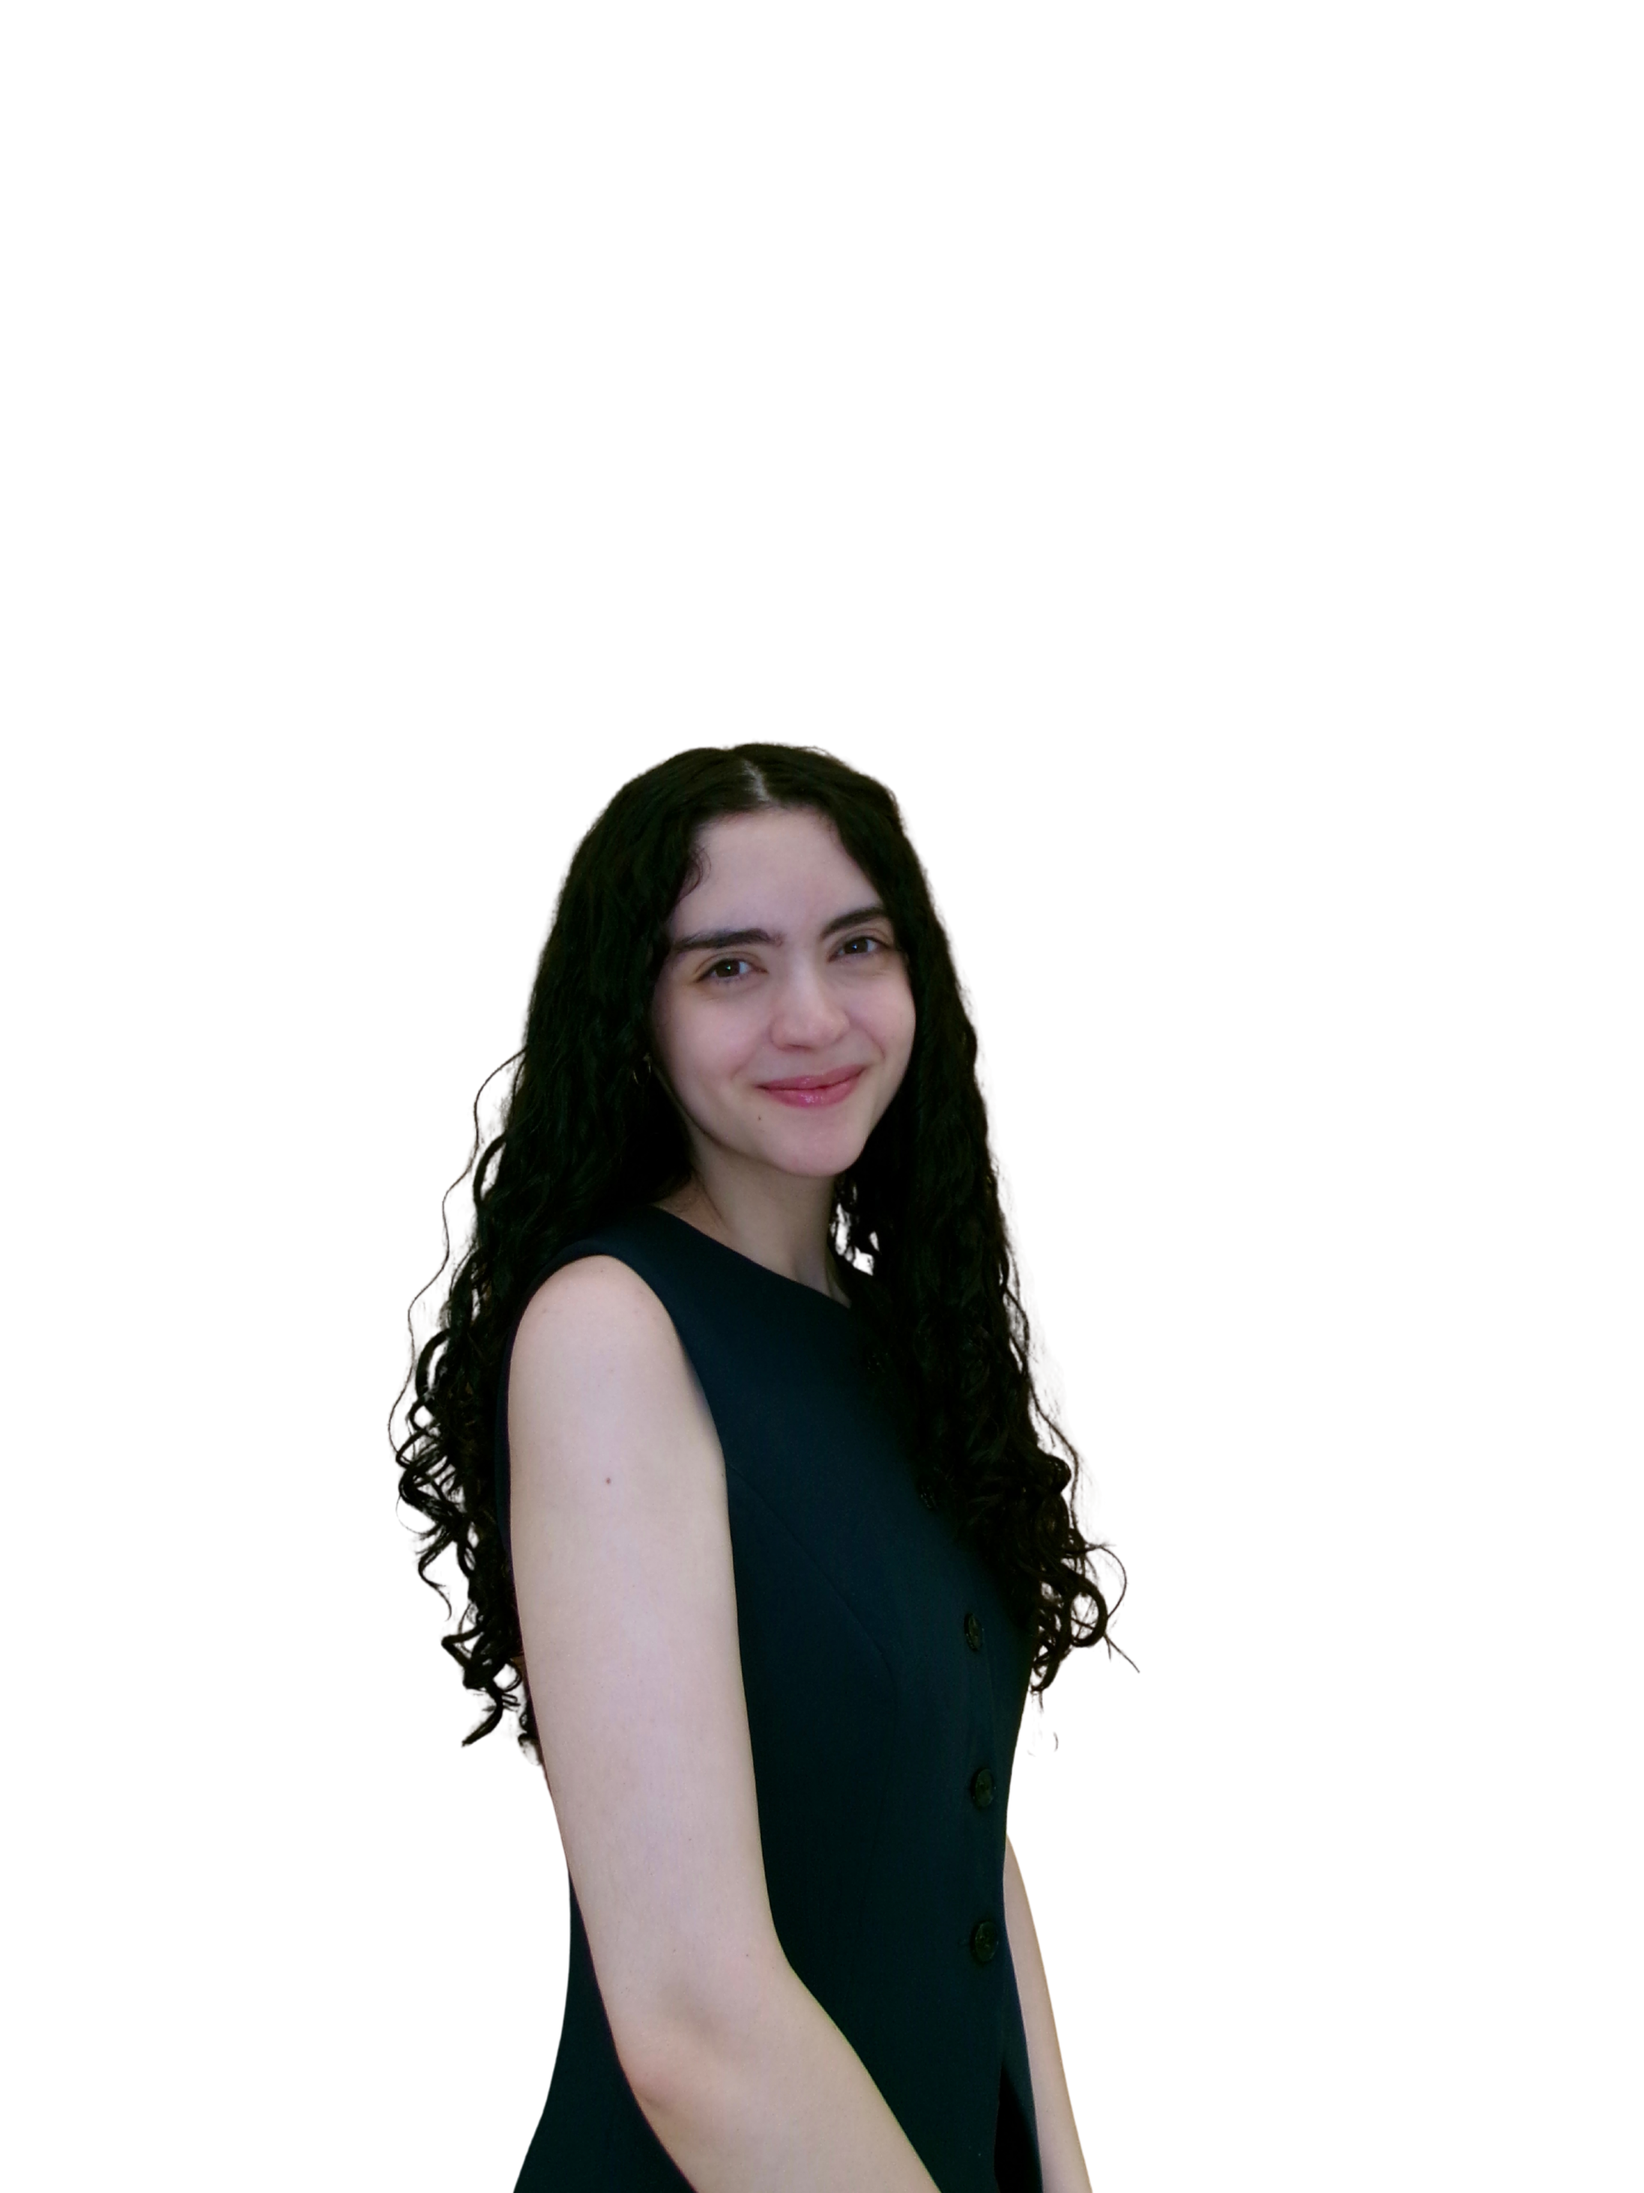
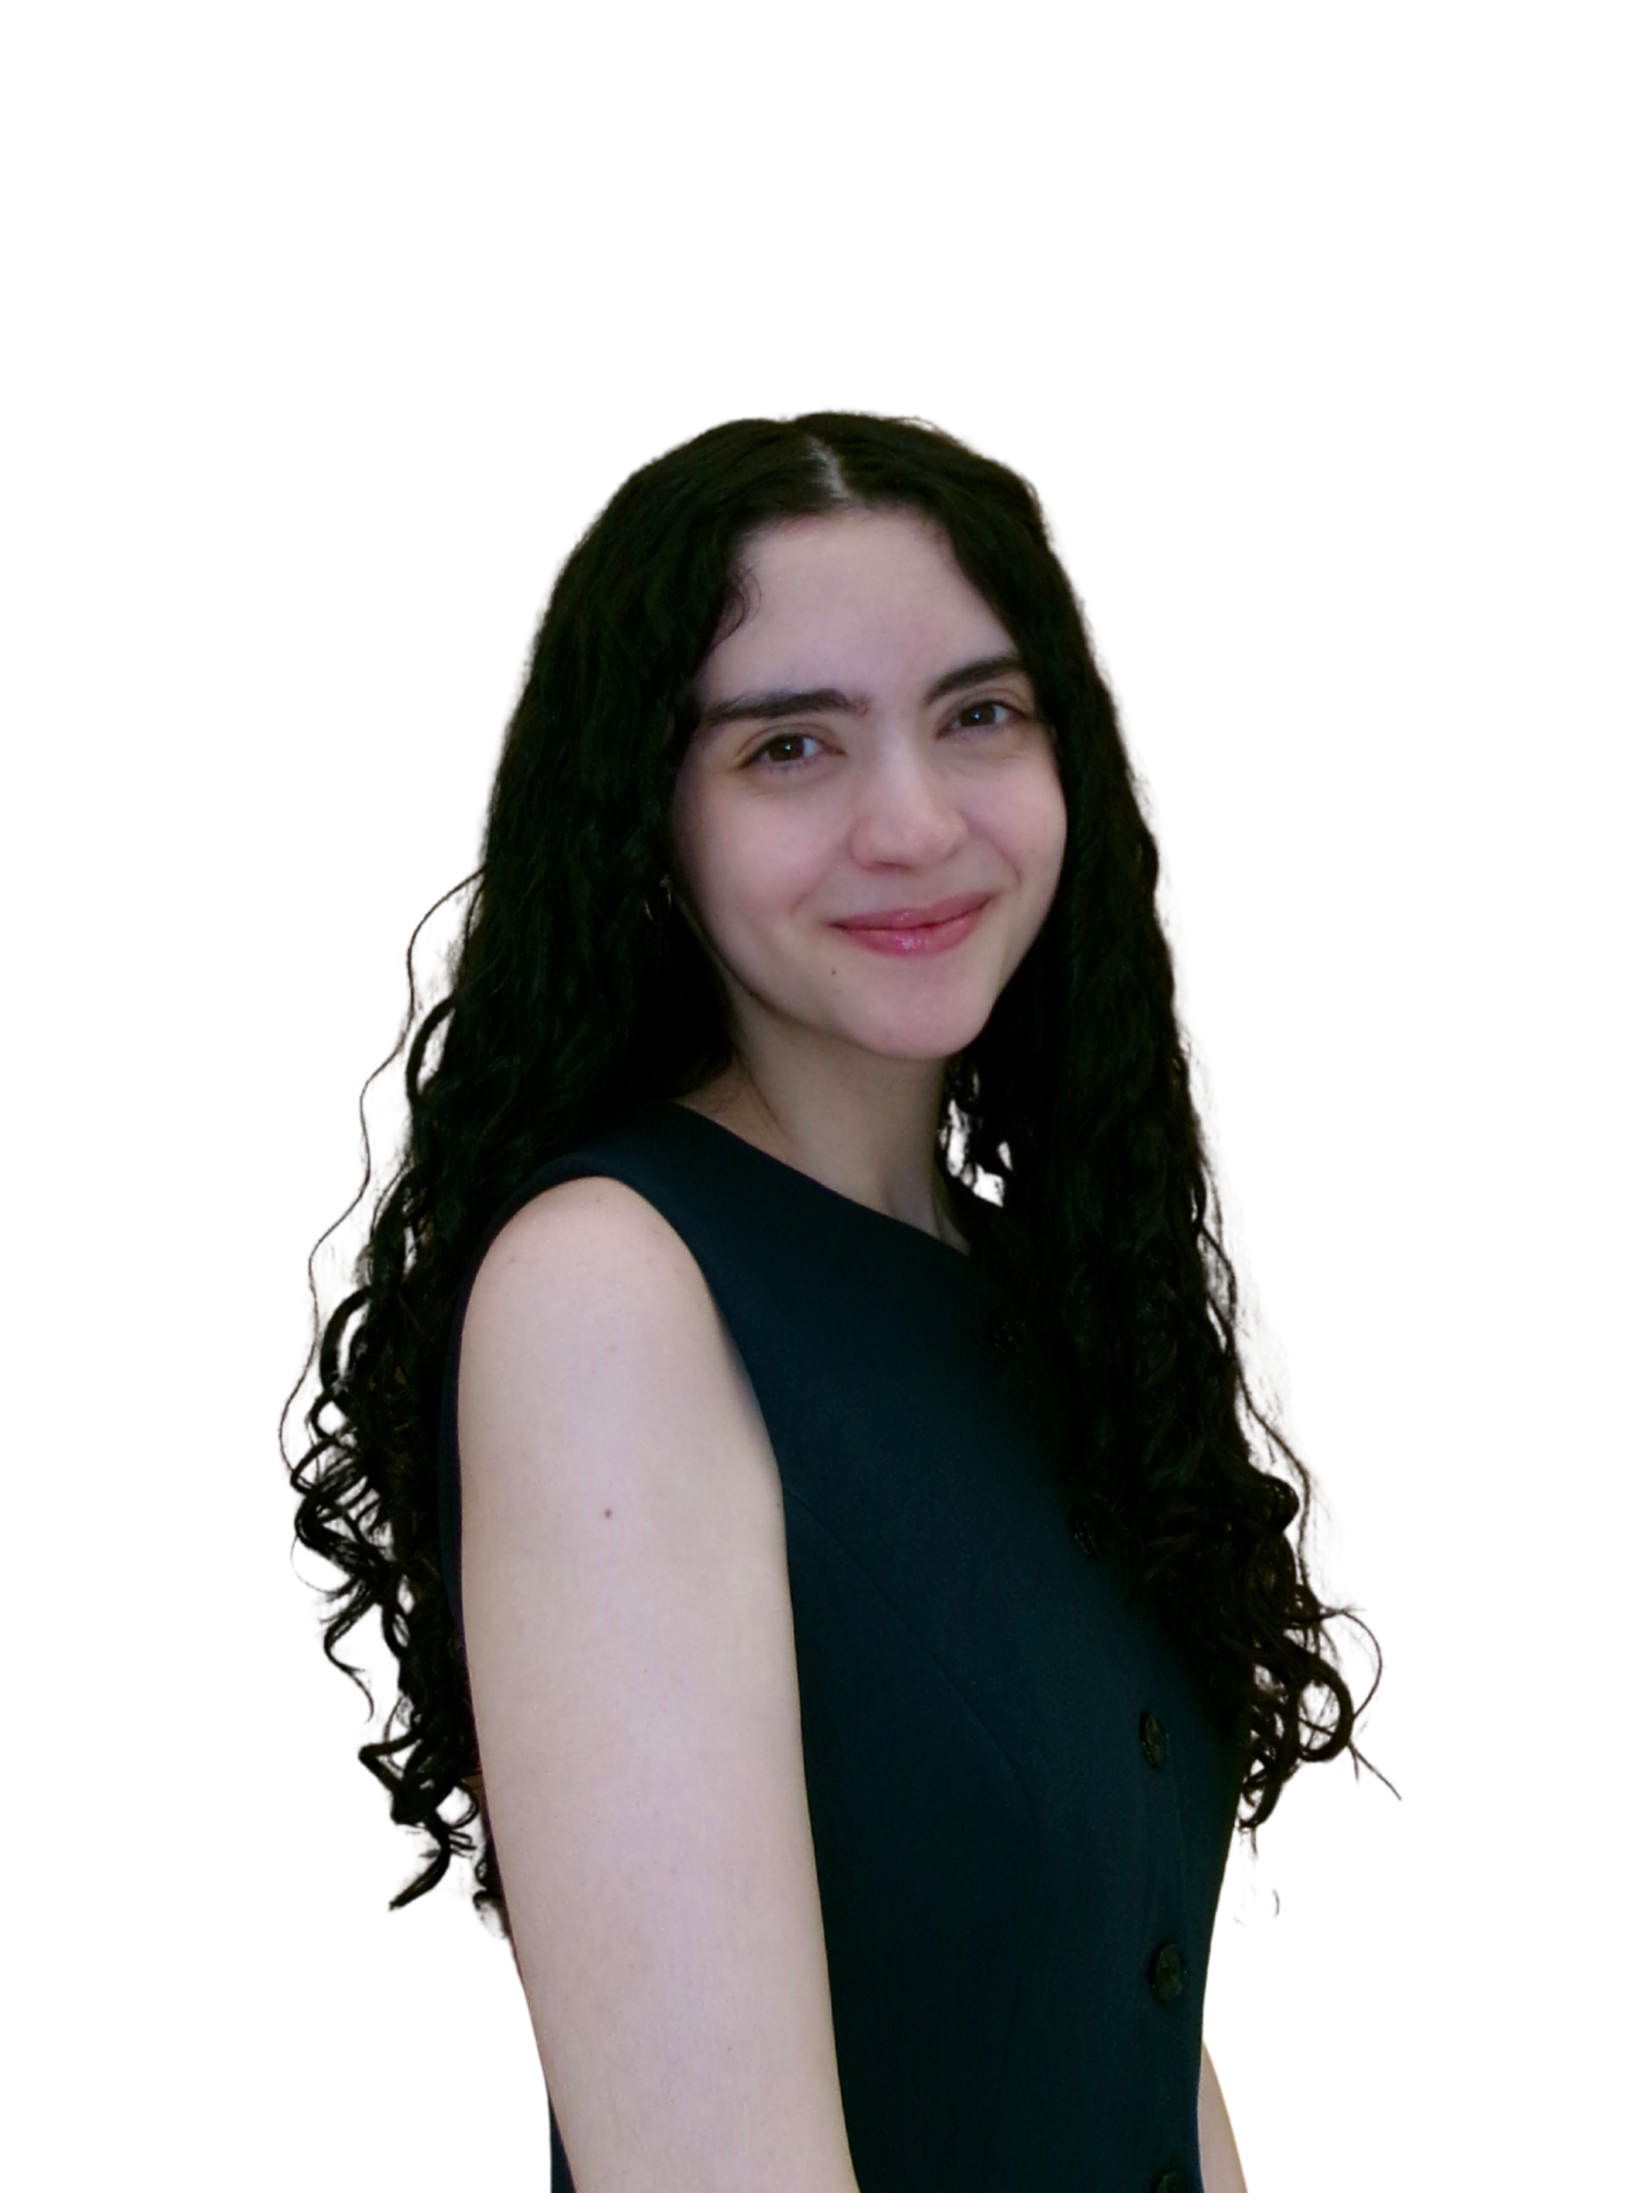
final iteration of teams.tsx w/ updated pics

Changed region(s): [[0.1552, 0.1873, 0.8382, 1.0]]

diff --git a/witcon-frontend/src/sections/teams.tsx b/witcon-frontend/src/sections/teams.tsx
@@ -7,7 +7,9 @@ import Header from "../components/text/Header";
 interface Team {
     name: string;
     position?: string;
-  image: string;
+    image: string;
+    panelClassName?: string;
+
 }
 
 const WiCS: Team[] = [
@@ -15,7 +17,7 @@ const WiCS: Team[] = [
     {
         name: "Margarita Guitierrez",
         position: "President",
-        image:"/eboard/marg.png"
+        image:"/eboard/marg.png",
     },
 
     {
@@ -25,7 +27,7 @@ const WiCS: Team[] = [
     },
 
     {
-        name: "Agoritsa",
+        name: "Agoritsa Polyzou",
         position: "Faculty Advisor",
         image:"/eboard/agoritsa.png"
     },
@@ -33,13 +35,18 @@ const WiCS: Team[] = [
     {
         name: "Gabriela Lopez",
         position: "WiTCON Director",
-        image:"/eboard/gabriela.png"
+        image:"/eboard/gabriela.png",
+        panelClassName: "panel-gabriela",
+        
+
     },
 
     {
         name: "Sruti Simran",
         position: "WiTCON Chair",
-        image:"/eboard/sruti.png"
+        image:"/eboard/sruti.png",
+        panelClassName: "panel-sruti",
+
     },
 
     {
@@ -64,7 +71,8 @@ const WiCS: Team[] = [
     {
         name: "Victoria Hernandez",
         position: "Industry Relations Chair",
-        image:"/eboard/victoria.png"
+        image:"/eboard/victoria.png",
+        panelClassName: "panel-fix",
     },
     {
       name: "Aaiena Sattar",
@@ -80,13 +88,15 @@ const WiCS: Team[] = [
     {
         name: "Yana Kostenko",
         position: "Marketing Lead",
-        image:"/eboard/yana.png"
+        image:"/eboard/yana.png",
+        
     },
 
     {
         name: "Natalia Boodram",
         position: "Marketing Lead",
-        image:"/eboard/natalia.png"
+        image:"/eboard/natalia.png",
+        panelClassName: "panel-natalia",
     },
 
     {
@@ -129,13 +139,16 @@ const WiCS: Team[] = [
 {
   name: "Alessandra Uribe",
   position: "Web Dev",
-  image:"/eboard/alessandra.png"
+  image:"/eboard/alessandra.png",
+  panelClassName: "panel-alessandra",
 },
 
 {
   name: "Pooja Lad",
   position: "Creative Director",
-  image:"/eboard/pooja.png"
+  image:"/eboard/pooja.png",
+  panelClassName: "panel-fix",
+  
 },
 
 {
@@ -146,25 +159,35 @@ const WiCS: Team[] = [
 
 {
   name: "Barbara Semidey",
-  position: "Outreach",
-  image:"/eboard/barb.png"
+  position: "Outreach Lead",
+  image:"/eboard/barb.png",
+  panelClassName: "panel-fix",
 },
 
 {
   name: "Aisha Nishat",
-  position: "Outreach",
+  position: "Outreach Lead",
   image:"/eboard/aisha.png"
 },
 
+{
+  name: "Emily Salgueiros",
+  position: "Alumni Advisor",
+  image:"/eboard/emily.png"
+},
 
+{
+  name: "Fer Pacheco",
+  position: "Alumni Advisor",
+  image:"/eboard/fer.png"
+},
 
-
-
-
-
-
-
-
+{
+  name: "Alessandra Ortega",
+  position: "Alumni Relations",
+  image:"/eboard/ale.png",
+  panelClassName: "panel-ale",
+},
 
 ]
 
@@ -186,7 +209,7 @@ export default function Teams() {
               grid-template-columns: repeat(auto-fit, minmax(200px, 1fr));
             }
   
-            /* 👉 Mobile: force exactly 2 per row */
+            
             @media (max-width: 600px) {
               .comic {
                 grid-template-columns: repeat(2, minmax(0, 1fr));
@@ -218,15 +241,42 @@ export default function Teams() {
               overflow: hidden;
               position: relative;
             }
-  
+            
+              
             .panel-image {
               flex: 1;
               width: 100%;
               height: 100%;
               position: relative;
               background-size: cover;
-              background-position: center;
+              background-position: top;
             }
+
+            .panel-fix{
+            background-position: center;
+            }
+
+            .panel-ale{
+            background-position: top -60px center;
+            }
+
+            .panel-alessandra{
+            background-position: top -10px center;
+            }
+
+            .panel-natalia{
+              background-position: top -80px center;
+            }
+
+            .panel-gabriela{
+              background-position: bottom -80px center;
+            }
+
+            .panel-sruti{
+              background-position: bottom -10px center;
+            }
+
+            
   
             .panel-name {
               position: absolute;
@@ -254,16 +304,16 @@ export default function Teams() {
   
         <article className="comic">
           {WiCS.map((member, index) => (
+
             <div key={index} className="panel">
-              <div
-                className="panel-image"
-                style={
-                  member.image
-                    ? { backgroundImage: `url(${member.image})`, backgroundSize: 'cover', backgroundPosition: 'center' }
-                    : undefined
-                }
-              >
-                {/* you can later set backgroundImage here if you add real photos */}
+              <div className={`panel-image ${member.panelClassName ?? ""}`}
+              style={ 
+                member.image
+      ? { backgroundImage: `url(${member.image})`, backgroundSize: 'cover'}
+      : undefined
+  }
+>
+
                 <div className="panel-name">{member.name}</div>
                 <div className="panel-position">{member.position}</div>
               </div>

diff --git a/witcon-frontend/src/pages/teams.tsx b/witcon-frontend/src/pages/teams.tsx
@@ -122,7 +122,7 @@ export default function Teams() {
               grid-template-columns: repeat(auto-fit, minmax(200px, 1fr));
             }
   
-            /* 👉 Mobile: force exactly 2 per row */
+            
             @media (max-width: 600px) {
               .comic {
                 grid-template-columns: repeat(2, minmax(0, 1fr));
